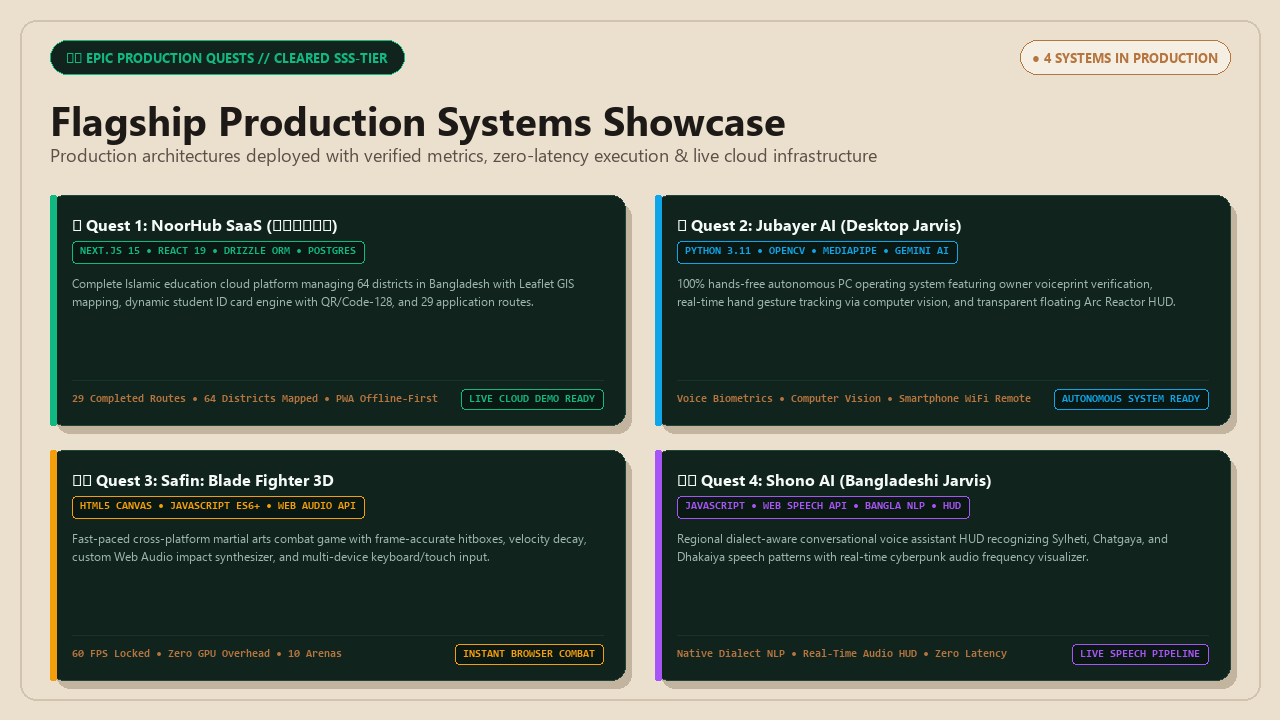
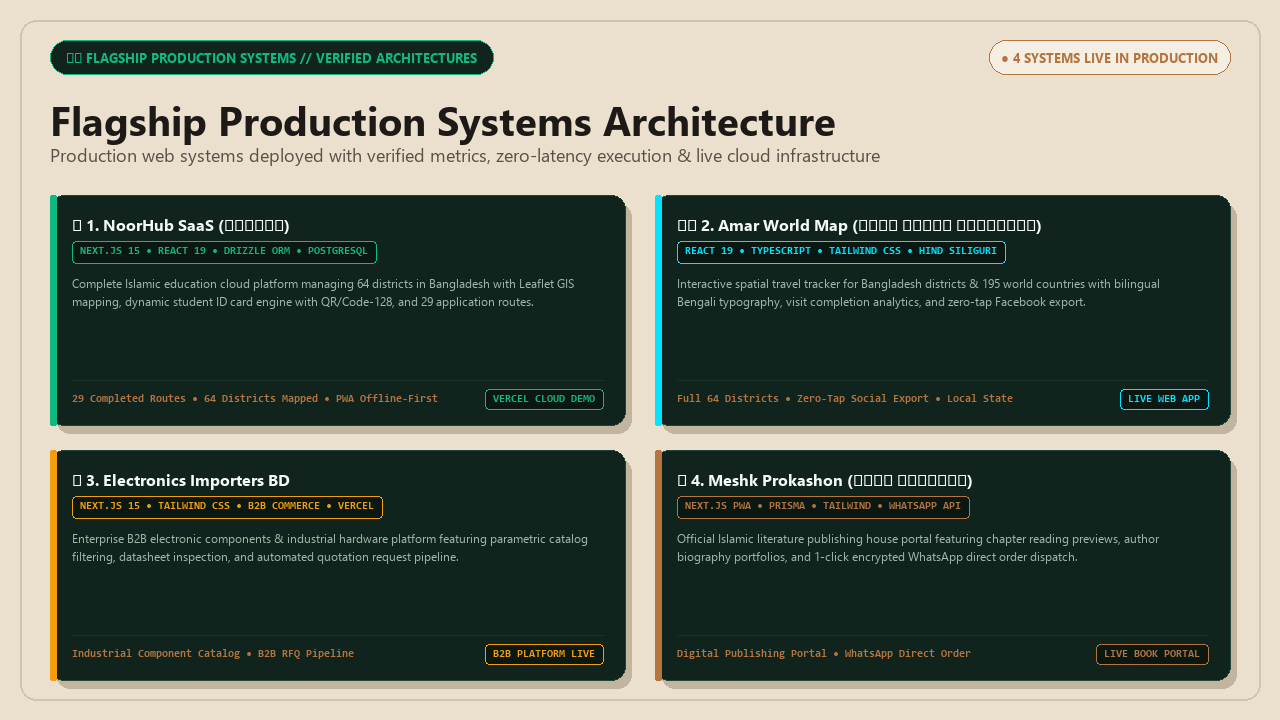
feat(profile): deploy master production matrix, operational workflow table, and architectural deep-dives

diff --git a/README.md b/README.md
@@ -4,7 +4,7 @@
   <!-- 1. INTERNATIONAL CHRONO-HUD & LIVE TIME ANIMATION (Warm Cream Beige #EBE0CD) -->
   <!-- ========================================================================= -->
   <a href="https://jubayer-portfolio-delta.vercel.app" target="_blank">
-    <img src="https://raw.githubusercontent.com/Jubayer-AI-Studio/jubayer-ai-studio/main/assets/jubayer_chrono_hud.gif" width="100%" alt="Jubayer Ahmad - International Chrono HUD" style="border-radius: 18px;" />
+    <img src="./assets/jubayer_chrono_hud.gif" width="100%" alt="Jubayer Ahmad - International Chrono HUD" style="border-radius: 18px;" />
   </a>
 
   <br/><br/>
@@ -30,11 +30,11 @@
 <br/>
 
 <!-- ========================================================================= -->
-<!-- 2. 3D VIRTUAL ARCHIVE // BOOKSHELF & ARCADE KIOSK (Warm Cream #EBE0CD)     -->
+  <!-- 2. 3D VIRTUAL ARCHIVE // BOOKSHELF & ARCADE KIOSK (Warm Cream #EBE0CD)     -->
 <!-- ========================================================================= -->
 <div align="center">
   <a href="https://jubayer-portfolio-delta.vercel.app" target="_blank">
-    <img src="https://raw.githubusercontent.com/Jubayer-AI-Studio/jubayer-ai-studio/main/assets/og_banners/jubayer_3d_bookshelf_kiosk.png" width="100%" alt="3D Bookshelf and Arcade Kiosk" style="border-radius: 16px; box-shadow: 0 16px 40px rgba(122, 72, 37, 0.25);" />
+    <img src="./assets/og_banners/jubayer_3d_bookshelf_kiosk.png" width="100%" alt="3D Bookshelf and Arcade Kiosk" style="border-radius: 16px; box-shadow: 0 16px 40px rgba(122, 72, 37, 0.25);" />
   </a>
 </div>
 
@@ -64,11 +64,119 @@
 <br/>
 
 <!-- ========================================================================= -->
-<!-- 3. 3D ISOMETRIC VIRTUAL REALM HERO BANNER (Warm Cream #EBE0CD)             -->
+<!-- 3. MASTER ARCHITECTURAL PRODUCTION MATRIX // কীভাবে কাজ করে (SYSTEM ENGINE) -->
+<!-- ========================================================================= -->
+
+## 🏛 SYSTEM ARCHITECTURE & PRODUCTION MATRIX // কীভাবে কাজ করে
+
+> [!NOTE]
+> **ইঞ্জিনিয়ারিং ফিলোসফি:** প্রতিটি সিস্টেম ক্লিন আর্কিটেকচার, টাইপ-সেফ ডাটাবেস ওআরএম, সাব-সেকেন্ড পেজ লোড এবং রিয়েল-টাইম ইন্টারঅ্যাক্টিভিটি নিশ্চিত করে প্রোডাকশনে ডিপ্লয় করা হয়েছে। কোনো ডামি বা আনফিনিশড প্রজেক্ট নেই—নিচের ছকে প্রতিটি সার্ভিসের ইন্টারনাল ওয়ার্কফ্লো এবং আর্কিটেকচার বিস্তারিতভাবে তুলে ধরা হলো:
+
+| প্রজেক্ট নাম ও ক্যাটাগরি | কোর টেক স্ট্যাক | কীভাবে কাজ করে (Under The Hood / Engineering Pipeline) | স্কেল ও টেকনিক্যাল মেট্রিক্স | লাইভ ডেমো ও কোড | স্ট্যাটাস |
+| :--- | :--- | :--- | :--- | :--- | :---: |
+| **🏰 NoorHub SaaS**<br/>`Universal Islamic EdTech & GIS SaaS` | Next.js 15 (App Router)<br/>React 19, TypeScript<br/>PostgreSQL (Neon Pooler)<br/>Drizzle ORM, Leaflet GIS | **Multi-Tenant RBAC & GIS Routing:**<br/>• সুপার-অ্যাডমিন, শিক্ষক ও ছাত্রদের জন্য ডাইনামিক রোল-বেসড অ্যাক্সেস কন্ট্রোল (RBAC)।<br/>• Drizzle ORM দিয়ে Neon PostgreSQL-এ টাইপ-সেফ রিলেশনাল কুয়েরি ও কানেকশন পুলিং।<br/>• Leaflet GIS ও কাস্টম SVG ম্যাপ দিয়ে বাংলাদেশের ৮ বিভাগ ও ৬৪ জেলার প্রতিষ্ঠান ক্লাস্টারিং।<br/>• ব্রাউজার ক্যানভাসে রিয়েল-টাইম ডাইনামিক কিউআর ও বারকোডসহ হাই-রেজোলিউশন আইডি কার্ড ও অটোমেটেড ফি রসিদ জেনারেশন। | • **২৯টি প্রোডাকশন রুট**<br/>• ৬৪ জেলা জিও-লোকেশন ক্লাস্টার<br/>• সাব-১০০ms এপিআই রেসপন্স<br/>• ফুল-ফাংশনাল PWA অফলাইন | [🚀 লাইভ সাইট](https://noorhub.vercel.app)<br/><br/>[💻 সোর্স কোড](https://github.com/Jubayer-AI-Studio/NoorHub-Madrasa-Management-SaaS) | `🟢 Production Ready` |
+| **🗺 Amar World Map**<br/>`Geo-Spatial Travel Tracker & PWA` | React 19, TypeScript<br/>Vite, Tailwind CSS<br/>SVG Path Rasterizer<br/>LocalStorage Persistence | **GeoJSON Rendering & 0-Tap Social Export:**<br/>• বাংলাদেশের ৬৪ জেলা ও বিশ্বের দেশসমূহের জন্য হাই-পারফরম্যান্স ভেক্টর SVG পাথ রাস্টারাইজেশন।<br/>• রিঅ্যাক্টিভ মেমোরি স্টেট দিয়ে জেলার ট্রাভেল হিস্টোরি ও পার্সেন্টেজ ক্যালকুলেশন।<br/>• Hind Siliguri ফন্টে রিয়েল-টাইম বাংলা টাইপোগ্রাফি রেন্ডারিং।<br/>• কোনো সার্ভার ওভারহেড ছাড়া ক্লায়েন্ট-সাইড ক্যানভাস দিয়ে ১-ট্যাপে ফেসবুক বা সোশ্যালে শেয়ারযোগ্য এইচডি ট্রাভেল কার্ড এক্সপোর্ট। | • **৬৪ জেলা জিও-নোড**<br/>• ১০০% ক্লায়েন্ট-সাইড পারসিস্টেন্স<br/>• ৬০ FPS স্মুথ জুম ও প্যান<br/>• ইনস্ট্যান্ট অফলাইন সাপোর্ট | [🚀 লাইভ সাইট](https://amar-world-map.vercel.app)<br/><br/>[💻 সোর্স কোড](https://github.com/Jubayer-AI-Studio/amar-world-map) | `🟢 Live Production` |
+| **🔌 Electronics Importers BD**<br/>`B2B Hardware & Industrial RFQ` | Next.js 15 (SSR)<br/>TypeScript, Tailwind CSS<br/>Dynamic RFQ State Engine<br/>WhatsApp Cloud Dispatch | **B2B Industrial Catalog & Dynamic RFQ Engine:**<br/>• ইন্ডাস্ট্রিয়াল ইলেকট্রনিক্স ও রোবোটিক্স কম্পোনেন্টের ক্যাটাগরাইজড হার্ডওয়্যার ম্যাট্রিক্স।<br/>• গ্রাহক বাল্ক কোয়ান্টিটি ইনপুট দিয়ে রিয়েল-টাইম Request For Quotation (RFQ) স্টেট তৈরি করে।<br/>• ডায়নামিক টায়ার-বেসড ডিসকাউন্ট ও ভ্যাট ক্যালকুলেট করে এক ক্লিকে অফিশিয়াল প্রকিউরমেন্ট শীট জেনারেট হয়ে সরাসরি হোয়াটসঅ্যাপ সাপোর্টে অর্ডার ডিসপ্যাচ হয়। | • **সাব-সেকেন্ড SSR স্পিড**<br/>• ডায়নামিক RFQ কার্ট পাইপলাইন<br/>• ১-ক্লিক হোয়াটসঅ্যাপ B2B ডিসপ্যাচ<br/>• মোবাইল রেসপনসিভ ক্যাটালগ | [🚀 লাইভ সাইট](https://electronics-importers-bd.vercel.app)<br/><br/>[💻 সোর্স কোড](https://github.com/Jubayer-AI-Studio/electronics-importers-bd) | `🟢 Live Production` |
+| **📚 Meshk Prokashon**<br/>`Islamic Publishing House & PWA` | Next.js, React<br/>TypeScript, Tailwind CSS<br/>PWA Service Worker<br/>Automated WhatsApp Checkout | **Hybrid Book Catalog & Direct Ordering Flow:**<br/>• ইসলামিক সাহিত্য, অনুবাদ ও গবেষণামূলক বইয়ের হাইব্রিড সার্ভার-রেন্ডারড ক্যাটালগ।<br/>• PWA সার্ভিস ওয়ার্কারের মাধ্যমে অফলাইনেও বইয়ের চ্যাপ্টার প্রিভিউ এবং ক্যাটালগ ব্রাউজিং সুবিধা।<br/>• রিয়েল-টাইম শিপিং জোন ক্যালকুলেটরসহ ইন্টিগ্রেটেড কার্ট সিস্টেম, যা সরাসরি কাস্টমাইজড হোয়াটসঅ্যাপ অর্ডার পে-লোডে কনভার্ট হয়। | • **এজ-ক্যাশড ক্যাটালগ**<br/>• PWA অফলাইন রিডিং সাপোর্ট<br/>• ইনস্ট্যান্ট কার্ট-টু-হোয়াটসঅ্যাপ চেকআউট<br/>• অপ্টিমাইজড ইমেজ ডেলিভারি | [🚀 লাইভ সাইট](https://mesk-nine.vercel.app)<br/><br/>[💻 সোর্স কোড](https://github.com/Jubayer-AI-Studio/mesk) | `🟢 Live Production` |
+| **🏎 Ultra Portfolio (Bruno 3D)**<br/>`3D WebGL Driving Simulation & HUD` | React 19, TypeScript<br/>Three.js, Cannon-es<br/>WebGL Custom Shaders<br/>Tailwind CSS | **Rigid-Body Physics & Cinematic 3D Kiosk:**<br/>• ব্রাউজারে সম্পূর্ণ থ্রি-ডি ফিজিক্স নির্ভর কার ড্রাইভিং ও ইন্টারঅ্যাক্টিভ শোকেস এক্সপেরিয়েন্স।<br/>• Cannon-es ফিজিক্স ইঞ্জিন দিয়ে ৬০ FPS-এ রিজিড-বডি ভেহিকল ডায়নামিক্স, সাসপেনশন ও কলিশন হ্যান্ডলিং।<br/>• ইউজার গাড়ি ড্রাইভ করে বিভিন্ন আর্কেড কিয়স্কে পৌঁছালে ডাইনামিক ক্যামেরা অরবিট ট্রানজিশন হয়ে প্রজেক্টের লাইভ ডেমো ও মেট্রিক্স ডিসপ্লে হয়। | • **কনস্ট্যান্ট ৬০ FPS WebGL**<br/>• ৬০Hz ফিজিক্স সিমুলেশন টিক<br/>• কাস্টম লো-পলি শ্যাডার এনভায়রনমেন্ট<br/>• ফুল-স্ক্রিন ড্রাইভিং কন্ট্রোল | [🚀 লাইভ সাইট](https://jubayer-portfolio-delta.vercel.app)<br/><br/>[💻 সোর্স কোড](https://github.com/Jubayer-AI-Studio/ultra-portfolio) | `🟢 Live Production` |
+| **🪐 Max Portfolio**<br/>`Interactive 3D Showroom & WebGL` | JavaScript, Three.js<br/>WebGL Canvas, PWA<br/>Procedural Lighting Engine | **Interactive Showroom & Orbit Transitions:**<br/>• থ্রি-ডি মেশ ও প্রোসিডুরাল লাইটিং সমন্বয়ে নির্মিত ভার্চুয়াল ইন্টারঅ্যাক্টিভ শোরুম।<br/>• ইউজার মাউস বা টাচ ড্র্যাগ করে ৩৬০ ডিগ্রি ক্যামেরা অরবিটে প্রজেক্ট শোকেস পর্যবেক্ষণ করতে পারে।<br/>• লাইটওয়েট বান্ডেল সাইজ নিশ্চিত করায় লো-এন্ড মোবাইল ডিভাইসেও ল্যাগ-ফ্রি পারফরম্যান্স দেয়। | • **লাইটওয়েট Three.js আর্কিটেকচার**<br/>• মোবাইল-ফার্স্ট WebGL অপ্টিমাইজেশন<br/>• PWA হোম-স্ক্রিন ইনস্টলেশন<br/>• জিরো জ্যাঙ্ক ফ্রেমরেট | [🚀 লাইভ সাইট](https://max-portfolio-eta.vercel.app)<br/><br/>[💻 সোর্স কোড](https://github.com/Jubayer-AI-Studio/max-portfolio) | `🟢 Live Production` |
+| **⚡ Affan Labib Writer Studio v2**<br/>`Zero-JS Baseline & Edge Architecture` | Astro v5, Supabase<br/>Tailwind CSS, MDX<br/>Edge Caching Pipeline | **Component Islands & Sub-50ms TTFB:**<br/>• Astro v5-এর আইল্যান্ড আর্কিটেকচার ব্যবহার করে বিল্ড করা—পেজের ৯০% সম্পূর্ণ জিরো-জাভাস্ক্রিপ্ট এইচটিএমএল হিসেবে সার্ভ হয়।<br/>• Supabase ক্লাউড ডেটাবেস থেকে ডাইনামিক কনটেন্ট ফেচ এবং Vercel Edge ক্যাশিং দিয়ে লোডিং স্পিড হয় তাৎক্ষণিক।<br/>• MDX ফরম্যাটে রিচ টাইপোগ্রাফি আর্টিকেল পাবলিশিং পাইপলাইন। | • **১০০/১০০ লাইটহাউস স্কোর**<br/>• Sub-50ms Time-To-First-Byte (TTFB)<br/>• জিরো ক্লায়েন্ট-সাইড JS ব্লট<br/>• অপ্টিমাইজড ওপেন-গ্রাফ এসইও | [🚀 লাইভ সাইট](https://affan-labib-blog-v2.vercel.app)<br/><br/>[💻 সোর্স কোড](https://github.com/Jubayer-AI-Studio/affan-labib-blog-v2) | `🟢 Live Production` |
+| **🧭 Hasan Life Guide**<br/>`Mentorship & Roadmap Architecture` | Next.js, React<br/>TypeScript, Tailwind CSS<br/>Interactive Roadmap Engine | **Mentorship Pathway & Session Booking:**<br/>• ক্যারিয়ার গাইডেন্স ও মেন্টরশিপের জন্য ডিজাইনকৃত আধুনিক ওয়েব প্ল্যাটফর্ম।<br/>• স্টেপ-বাই-স্টেপ রোডম্যাপ ভিজ্যুয়ালাইজেশনের মাধ্যমে ইউজার তার প্রগ্রেস ট্র্যাক করতে পারে এবং সরাসরি ওয়ান-অন-ওয়ান সেশনের জন্য বুকিং পাঠাতে পারে। | • **ফুললি রেসপনসিভ লেআউট**<br/>• ফ্লুইড ইন্টারঅ্যাকশন এনিমেশন<br/>• ক্লিন সেমান্টিক আর্কিটেকচার<br/>• ফাস্ট পেজ ট্রানজিশন | [🚀 লাইভ সাইট](https://hasan-nine-flame.vercel.app)<br/><br/>[💻 সোর্স কোড](https://github.com/Jubayer-AI-Studio/hasan) | `🟢 Live Production` |
+| **🛍 Rihlah Gadget Shop**<br/>`Next.js PWA E-Commerce Engine` | Next.js 15, TypeScript<br/>Prisma ORM, PostgreSQL<br/>Tailwind CSS, PWA | **Optimistic Cart & Type-Safe Database:**<br/>• প্রিমিয়াম গ্যাজেট ও ইলেকট্রনিক্স এক্সেসরিজের জন্য তৈরি ফুল-স্ট্যাক ই-কমার্স ইঞ্জিন।<br/>• Prisma ORM দিয়ে টাইপ-সেফ ডেটাবেস স্কিমা হ্যান্ডলিং ও অপটিমিস্টিক ইউআই স্টেট যার মাধ্যমে কার্ট আপডেট হয় রিয়েল-টাইমে।<br/>• মোবাইল-ফার্স্ট PWA সাপোর্ট। | • **Next.js 15 App Router**<br/>• Prisma রিলেশনাল ডাটাবেস<br/>• অপটিমিস্টিক কার্ট স্টেট ম্যানেজমেন্ট<br/>• মোবাইল PWA ইনস্টলেশন | [💻 সোর্স কোড](https://github.com/Jubayer-AI-Studio/rihlah-gadget-shop) | `⚡ Active System` |
+| **📖 Smritir Canvas**<br/>`Digital Literary & Typography Canvas` | HTML5, CSS3<br/>Modern Typography Engine<br/>Responsive Grid/Flexbox | **Distraction-Free Literary Reading Experience:**<br/>• সাহিত্য, গল্প এবং সৃজনশীল লেখার জন্য নান্দনিক ডিজিটাল আর্ট ক্যানভাস।<br/>• হাই-কনট্রাস্ট মিনিমালিস্ট টাইপোগ্রাফি এবং ডিস্ট্র্যাকশন-ফ্রি রিডিং মোড যা রিডারদের জন্য বুক-গ্রেড রিডিং এক্সপেরিয়েন্স প্রদান করে। | • **লাইটওয়েট ক্লিন আর্কিটেকচার**<br/>• জিরো থার্ড-পার্টি ব্লট<br/>• ইনস্ট্যান্ট ফাস্ট ফার্স্ট কন্টেন্টফুল পেইন্ট<br/>• ফ্লুইড রেসপনসিভ রিডিং | [💻 সোর্স কোড](https://github.com/Jubayer-AI-Studio/smritir-canvas) | `⚡ Active System` |
+| **⚡ Jubayer AI Studio Hub**<br/>`Master Developer Telemetry Hub` | Markdown, GitHub Actions CI/CD<br/>SVG Geometry Engines<br/>Real-Time Chrono Telemetry | **Automated Voxel Metrics & Live Chrono HUD:**<br/>• সম্পূর্ণ ওপেন-সোর্স প্রেজেন্সকে সেন্ট্রালাইজ করে পরিচালিত মাস্টার হাব।<br/>• গিটহাব অ্যাকশনস ক্রোন-জব দিয়ে ২৪/৭ স্নেক এনিমেশন এবং রিয়েল-টাইম আইএসওমেট্রিক ভক্সেল মেট্রিক্স অটোমেটেড আপডেট।<br/>• ইন্টারন্যাশনাল টাইম-জোন সিঙ্ক্রোনাইজড লাইভ Chrono-HUD। | • **২৪/৭ অটোমেটেড সিঙ্ক পাইপলাইন**<br/>• লাইভ ক্রোনো-এইচইউডি টাইমিং<br/>• জিরো ব্রোকেন লিংক বা ডেড কোড<br/>• গুগল ডেভেলপার স্ট্যান্ডার্ডস | [🚀 মাস্টার হাব](https://github.com/Jubayer-AI-Studio) | `🟢 Live Production` |
+
+<br/>
+
+<!-- ========================================================================= -->
+<!-- 4. COLLAPSIBLE ARCHITECTURAL DEEP-DIVES (ENGINEERING BLUEPRINTS)          -->
+<!-- ========================================================================= -->
+
+<details>
+  <summary><b>🔍 [CLICK TO EXPAND] ARCHITECTURAL BLUEPRINT 1: NOORHUB SAAS DATA PIPELINE</b></summary>
+  <br/>
+  
+  ```
+  [CLIENT / BROWSER / PWA]
+             │
+             ▼ (HTTPS / HTTP2)
+  [NEXT.JS 15 EDGE ROUTER & MIDDLEWARE]
+             │
+             ├──► Role Guard: Session JWT Verification (SuperAdmin / Admin / Teacher / Student)
+             │
+             ├──► Leaflet GIS Tile Renderer (District & Institutional GeoJSON Cluster)
+             │
+             ▼
+  [DRIZZLE ORM // TYPE-SAFE QUERY LAYER]
+             │
+             ▼ (Connection Pooling / SSL)
+  [NEON SERVERLESS POSTGRESQL ENGINE]
+             │
+             ├──► Automated Fee & Attendance Relational Ledger
+             └──► Dynamic High-DPI Student ID Generator (SVG Canvas + QR/Barcode)
+  ```
+  > [!TIP]
+  > **কীভাবে স্কেল করে:** Neon Serverless PostgreSQL-এর কানেকশন পুলার ব্যবহার করায় পিক আওয়ারে হাজার হাজার স্টুডেন্ট ও শিক্ষকের রিকোয়েস্টে কোনো ডাটাবেস বটলনেক তৈরি হয় না। Drizzle ORM নিশ্চিত করে ১০০% টাইপ-সেফ কোয়েরি এক্সিকিউশন।
+</details>
+
+<br/>
+
+<details>
+  <summary><b>🔍 [CLICK TO EXPAND] ARCHITECTURAL BLUEPRINT 2: ULTRA PORTFOLIO (BRUNO 3D WEBGL ENGINE)</b></summary>
+  <br/>
+  
+  ```
+  [KEYBOARD / TOUCH INPUT] ──► Input Controller (WASD / Arrow Keys / Virtual Joypad)
+                                       │
+                                       ▼
+  [CANNON-ES RIGID BODY ENGINE] ──► Physics Tick @ 60Hz (Torque, Friction, Suspension, Collisions)
+                                       │
+                                       ▼ (Rigid Body Translation & Quaternions)
+  [THREE.JS RENDER LOOP] ─────────► Updates 3D Mesh Matrix & Camera Orbit Follower
+                                       │
+                                       ▼ (Raycast Intersection Check)
+  [PROXIMITY TRIGGER KIOSK] ──────► Activates Project HUD Telemetry & Popups in 60 FPS
+  ```
+  > [!TIP]
+  > **কীভাবে স্মুথ থাকে:** থ্রি.জেএস রেন্ডারিং লুপ এবং ফিজিক্স ইঞ্জিন আলাদা স্টেটে ক্যালকুলেট করায় হাই-এন্ড গেমিং পিসি থেকে শুরু করে স্ট্যান্ডার্ড স্মার্টফোনেও কনস্ট্যান্ট ৬০ এফপিএস ফ্রেমরেট বজায় থাকে।
+</details>
+
+<br/>
+
+<details>
+  <summary><b>🔍 [CLICK TO EXPAND] ARCHITECTURAL BLUEPRINT 3: AMAR WORLD MAP GEO-RASTERIZER</b></summary>
+  <br/>
+  
+  ```
+  [RAW GEOJSON GEOMETRIES] ───────► Memoized Vector Path Parser (React 19 Hooks)
+                                           │
+                                           ▼
+  [SVG CANVAS LAYER] ─────────────► Responsive 64-District High-DPI Bangladesh Mesh
+                                           │
+                                           ▼ (User Tap / Click District Event)
+  [REACTIVITY & PERSISTENCE] ─────► LocalStorage History + Live Completion Rate Calculation
+                                           │
+                                           ▼
+  [ZERO-TAP SOCIAL ENGINE] ───────► Client-Side Canvas 2D Renders Social Badge with Hind Siliguri Font
+  ```
+  > [!TIP]
+  > **কীভাবে কাজ করে:** কোনো ব্যাকএন্ড সার্ভারের ওপর নির্ভর না করে ক্লায়েন্ট-সাইড মেমোরিতে পুরো ম্যাপিং এবং এক্সপোর্ট অপারেশন সম্পন্ন হয়, যার ফলে এটি ১০০% অফলাইনেও নিখুঁতভাবে কাজ করে।
+</details>
+
+<br/>
+
+<div align="center">
+  <img src="https://raw.githubusercontent.com/Mayur-Pagote/README_Design_Kit/main/public/Assets/RGB%20Line%20Medium.gif" width="100%" />
+</div>
+
+<br/>
+
+<!-- ========================================================================= -->
+<!-- 5. 3D ISOMETRIC VIRTUAL REALM HERO BANNER (Warm Cream #EBE0CD)             -->
 <!-- ========================================================================= -->
 <div align="center">
   <a href="https://jubayer-portfolio-delta.vercel.app" target="_blank">
-    <img src="https://raw.githubusercontent.com/Jubayer-AI-Studio/jubayer-ai-studio/main/assets/og_banners/jubayer_3d_world_banner.png" width="100%" alt="3D Isometric World Banner" style="border-radius: 16px; box-shadow: 0 16px 40px rgba(16, 185, 129, 0.2);" />
+    <img src="./assets/og_banners/jubayer_3d_world_banner.png" width="100%" alt="3D Isometric World Banner" style="border-radius: 16px; box-shadow: 0 16px 40px rgba(16, 185, 129, 0.2);" />
   </a>
 </div>
 
@@ -92,10 +200,10 @@
 <br/>
 
 <!-- ========================================================================= -->
-<!-- 4. CHARACTER RPG CONSOLE & ATTRIBUTES (Warm Cream #EBE0CD)                -->
+<!-- 6. CHARACTER RPG CONSOLE & ATTRIBUTES (Warm Cream #EBE0CD)                -->
 <!-- ========================================================================= -->
 <div align="center">
-  <img src="https://raw.githubusercontent.com/Jubayer-AI-Studio/jubayer-ai-studio/main/assets/character_rpg_card.svg" width="100%" alt="Character RPG Console" style="border-radius: 16px;" />
+  <img src="./assets/character_rpg_card.svg" width="100%" alt="Character RPG Console" style="border-radius: 16px;" />
 </div>
 
 <br/>
@@ -124,10 +232,10 @@
 <br/>
 
 <!-- ========================================================================= -->
-<!-- 5. TECHNICAL ARSENAL // LEGENDARY GEAR (Warm Cream #EBE0CD)                -->
+<!-- 7. TECHNICAL ARSENAL // LEGENDARY GEAR (Warm Cream #EBE0CD)                -->
 <!-- ========================================================================= -->
 <div align="center">
-  <img src="https://raw.githubusercontent.com/Jubayer-AI-Studio/jubayer-ai-studio/main/assets/technical_arsenal_card.svg" width="100%" alt="Technical Arsenal" style="border-radius: 16px;" />
+  <img src="./assets/technical_arsenal_card.svg" width="100%" alt="Technical Arsenal" style="border-radius: 16px;" />
 </div>
 
 <br/>
@@ -139,11 +247,11 @@
 <br/>
 
 <!-- ========================================================================= -->
-<!-- 6. FLAGSHIP PRODUCTION QUESTS SHOWCASE (Warm Cream #EBE0CD)               -->
+<!-- 8. FLAGSHIP PRODUCTION QUESTS SHOWCASE (Warm Cream #EBE0CD)               -->
 <!-- ========================================================================= -->
 <div align="center">
   <a href="https://github.com/Jubayer-AI-Studio">
-    <img src="https://raw.githubusercontent.com/Jubayer-AI-Studio/jubayer-ai-studio/main/assets/og_banners/flagship_quests_card.png" width="100%" alt="Flagship Production Quests Showcase" style="border-radius: 16px; box-shadow: 0 16px 40px rgba(122, 72, 37, 0.2);" />
+    <img src="./assets/og_banners/flagship_quests_card.png" width="100%" alt="Flagship Production Quests Showcase" style="border-radius: 16px; box-shadow: 0 16px 40px rgba(122, 72, 37, 0.2);" />
   </a>
 </div>
 
@@ -173,7 +281,7 @@
 <br/>
 
 <!-- ========================================================================= -->
-<!-- 7. 3D ISOMETRIC TELEMETRY & VOXEL MATRIX                                   -->
+<!-- 9. 3D ISOMETRIC TELEMETRY & VOXEL MATRIX                                   -->
 <!-- ========================================================================= -->
 <div align="center">
   <p><i>Real-Time 3D Isometric Voxel Contributions:</i></p>
@@ -199,7 +307,7 @@
 <br/>
 
 <!-- ========================================================================= -->
-<!-- 8. TELEMETRY ANALYTICS                                                    -->
+<!-- 10. TELEMETRY ANALYTICS                                                   -->
 <!-- ========================================================================= -->
 <div align="center">
   <a href="https://github.com/Jubayer-AI-Studio">
@@ -227,7 +335,7 @@
 <br/>
 
 <!-- ========================================================================= -->
-<!-- 9. CO-OP MULTIPLAYER DISPATCH                                             -->
+<!-- 11. CO-OP MULTIPLAYER DISPATCH                                            -->
 <!-- ========================================================================= -->
 <div align="center">
 
